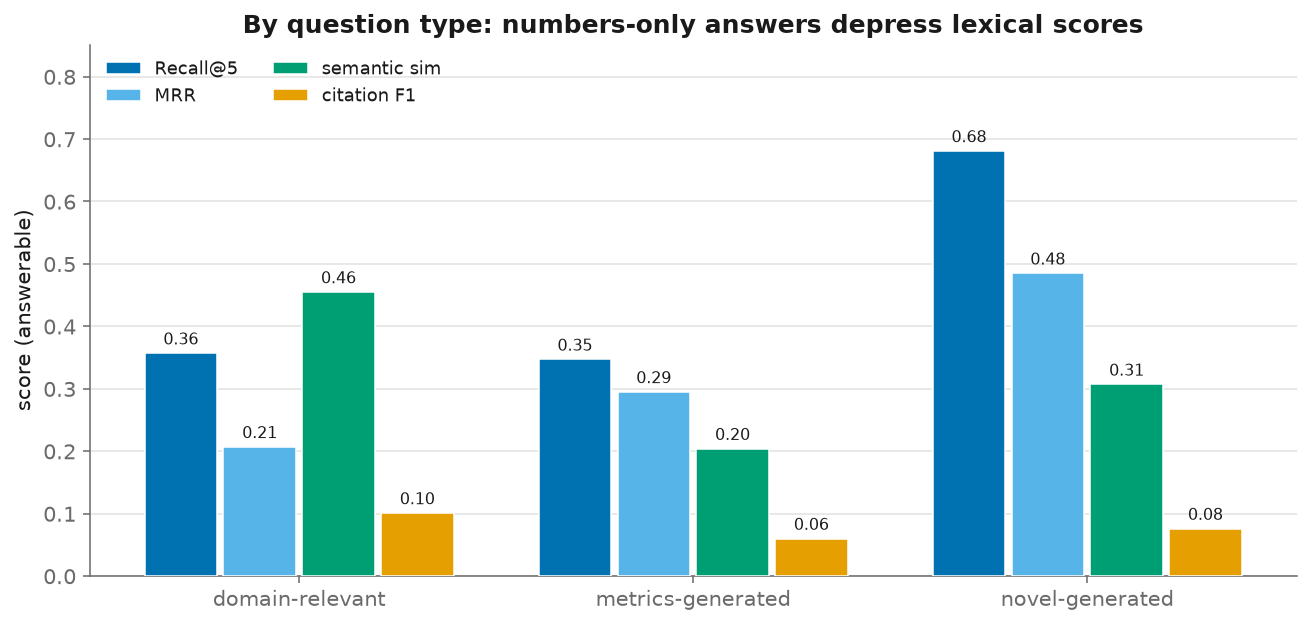
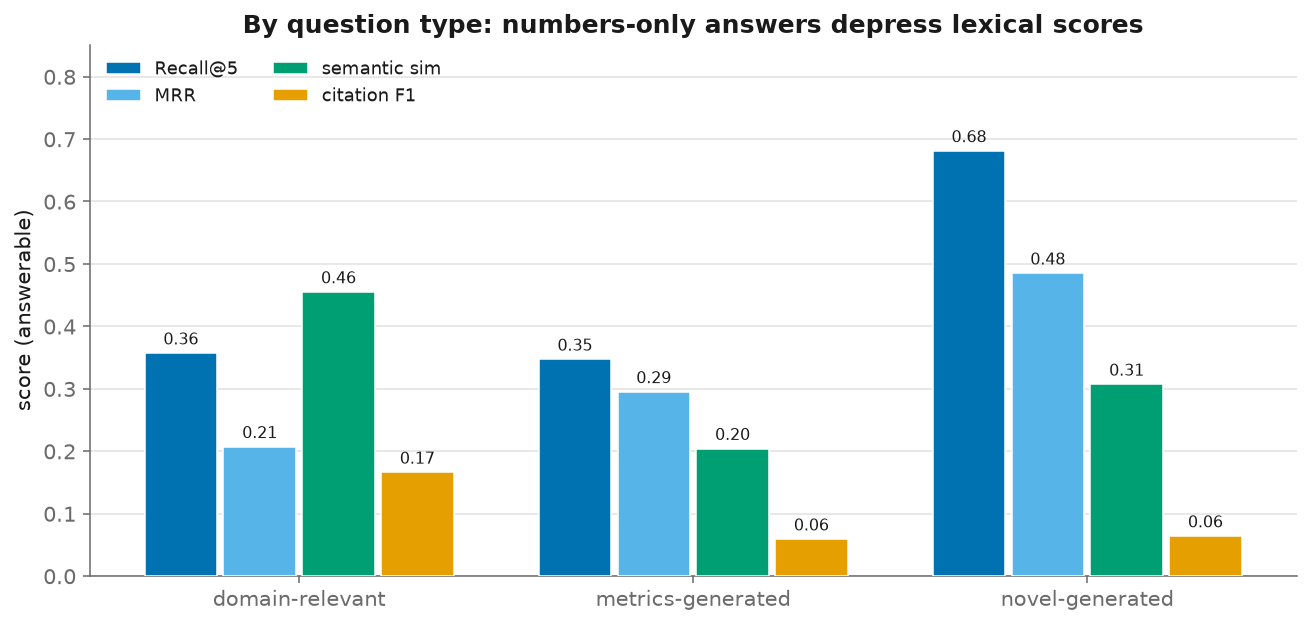
add filtered and hybrid retrieval to the results and figures

Changed region(s): [[0.2748, 0.7296, 0.3664, 0.8208], [0.8855, 0.8208, 0.9466, 0.8816], [0.6107, 0.8208, 0.6412, 0.8512]]

diff --git a/src/evaluation/make_figures.py b/src/evaluation/make_figures.py
@@ -36,7 +36,8 @@ VERMILLION = "#D55E00"  # contrast / "miss"
 SKY = "#56B4E9"       # fourth category
 PURPLE = "#CC79A7"    # fifth category
 AXIS_COLOR = {"chunk_size": ORANGE, "embedding_model": GREEN,
-              "retrieval_k": SKY, "generation_model": PURPLE, "reference": BLUE}
+              "retrieval_k": SKY, "generation_model": PURPLE, "reference": BLUE,
+              "retrieval_filter": VERMILLION}
 
 RETRIEVAL_METRICS = ["recall@1", "recall@5", "recall@10", "mrr"]
 
@@ -120,11 +121,13 @@ def fig_retrieval_ablation(df: pd.DataFrame, fig_dir: Path):
     One panel carries the whole retrieval story: which single change helps or hurts, with the
     reference configuration marked as the point of comparison.
     """
-    order = ["chunk_256", "baseline", "chunk_structure", "embed_minilm", "k_3", "k_10"]
+    order = ["chunk_256", "embed_minilm", "k_3", "baseline", "k_10", "chunk_structure",
+             "hybrid", "filtered_meta"]
     sub = df.set_index("experiment").reindex([o for o in order if o in df["experiment"].values])
     labels = {"chunk_256": "256-tok chunks", "baseline": "512-tok (reference)",
               "chunk_structure": "structure-aware", "embed_minilm": "MiniLM embed",
-              "k_3": "k=3", "k_10": "k=10"}
+              "k_3": "k=3", "k_10": "k=10", "filtered_meta": "company filter",
+              "hybrid": "dense+BM25"}
     vals = sub["answerable.recall@5_mean"].values
     colors = [AXIS_COLOR.get(a, BLUE) for a in sub["axis"].values]
 
@@ -141,14 +144,14 @@ def fig_retrieval_ablation(df: pd.DataFrame, fig_dir: Path):
     ax.set_xticklabels([labels.get(i, i) for i in sub.index], rotation=18, ha="right")
     ax.set_ylabel("Recall@5 (answerable)")
     ax.set_ylim(0, max(vals) * 1.28)
-    ax.set_title("Retrieval: structure-aware chunks and bge-base embeddings win")
+    ax.set_title("Retrieval: filtering to the questioned company beats every chunking or k change")
     ax.grid(axis="x", visible=False)
     _despine(ax)
     # legend by axis, placed over the short leftmost bar to avoid the taller bars' labels
     from matplotlib.patches import Patch
     seen = dict(zip(sub["axis"], colors))
     legend = [Patch(facecolor=AXIS_COLOR[a], label=a.replace("_", " "))
-              for a in ["reference", "chunk_size", "embedding_model", "retrieval_k"] if a in seen]
+              for a in ["reference", "chunk_size", "embedding_model", "retrieval_k", "retrieval_filter"] if a in seen]
     ax.legend(handles=legend, loc="upper left", frameon=False, fontsize=9.5, ncol=2)
     fig.tight_layout()
     fig.savefig(fig_dir / "retrieval_ablation.png", bbox_inches="tight")

diff --git a/results/results_summary.md b/results/results_summary.md
@@ -7,12 +7,14 @@ answerable subset (documents that yield usable text); the full set is 150.
 
 | config | axis | R@1 | R@5 | R@10 | MRR |
 | --- | --- | --- | --- | --- | --- |
+| filtered_meta | retrieval_filter | 0.259 | 0.509 | 0.509 | 0.358 |
 | chunk_structure | chunk_size | 0.244 | 0.475 | 0.475 | 0.333 |
 | baseline | reference | 0.232 | 0.456 | 0.456 | 0.323 |
 | gen_gemma | generation_model | 0.232 | 0.456 | 0.456 | 0.323 |
 | k_10 | retrieval_k | 0.232 | 0.456 | 0.504 | 0.329 |
 | k_3 | retrieval_k | 0.232 | 0.409 | 0.409 | 0.311 |
 | embed_minilm | embedding_model | 0.149 | 0.395 | 0.395 | 0.243 |
+| hybrid | retrieval_filter | 0.124 | 0.379 | 0.379 | 0.218 |
 | chunk_256 | chunk_size | 0.161 | 0.282 | 0.282 | 0.203 |
 
 ## Generation and citations (answerable subset)
@@ -35,11 +37,13 @@ answerable subset (documents that yield usable text); the full set is 150.
 | gen_gemma | 0.360 | 0.456 |
 | k_10 | 0.360 | 0.456 |
 | k_3 | 0.324 | 0.409 |
+| filtered_meta | 0.400 | 0.509 |
+| hybrid | 0.294 | 0.379 |
 
 ## Reference run by question type (answerable)
 
 | question_type     |   recall@5 |   mrr |   rouge_l |   semantic_similarity |   citation_f1 |
 |:------------------|-----------:|------:|----------:|----------------------:|--------------:|
-| domain-relevant   |      0.357 | 0.207 |     0.154 |                 0.455 |         0.101 |
-| metrics-generated |      0.347 | 0.295 |     0.001 |                 0.204 |         0.06  |
-| novel-generated   |      0.681 | 0.485 |     0.135 |                 0.307 |         0.076 |
+| domain-relevant   |      0.357 | 0.207 |     0.154 |                 0.455 |         0.166 |
+| metrics-generated |      0.347 | 0.295 |     0.001 |                 0.204 |         0.059 |
+| novel-generated   |      0.681 | 0.485 |     0.135 |                 0.307 |         0.064 |
